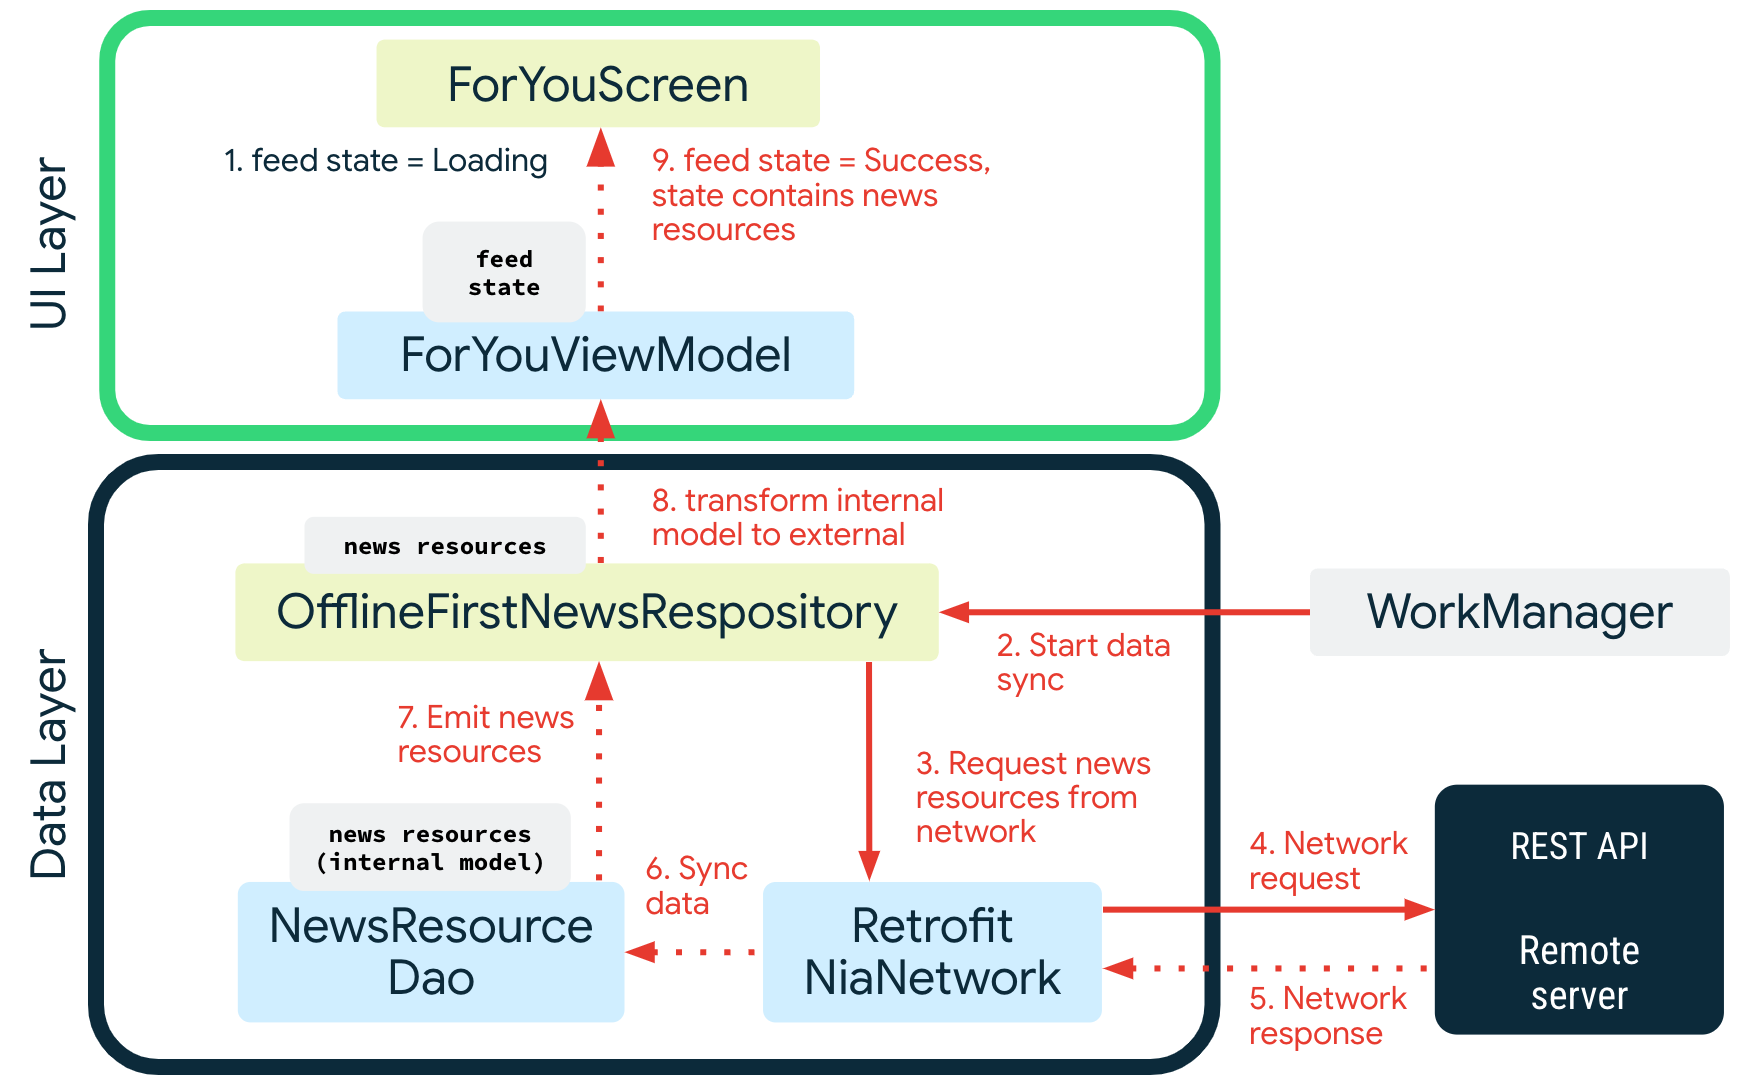
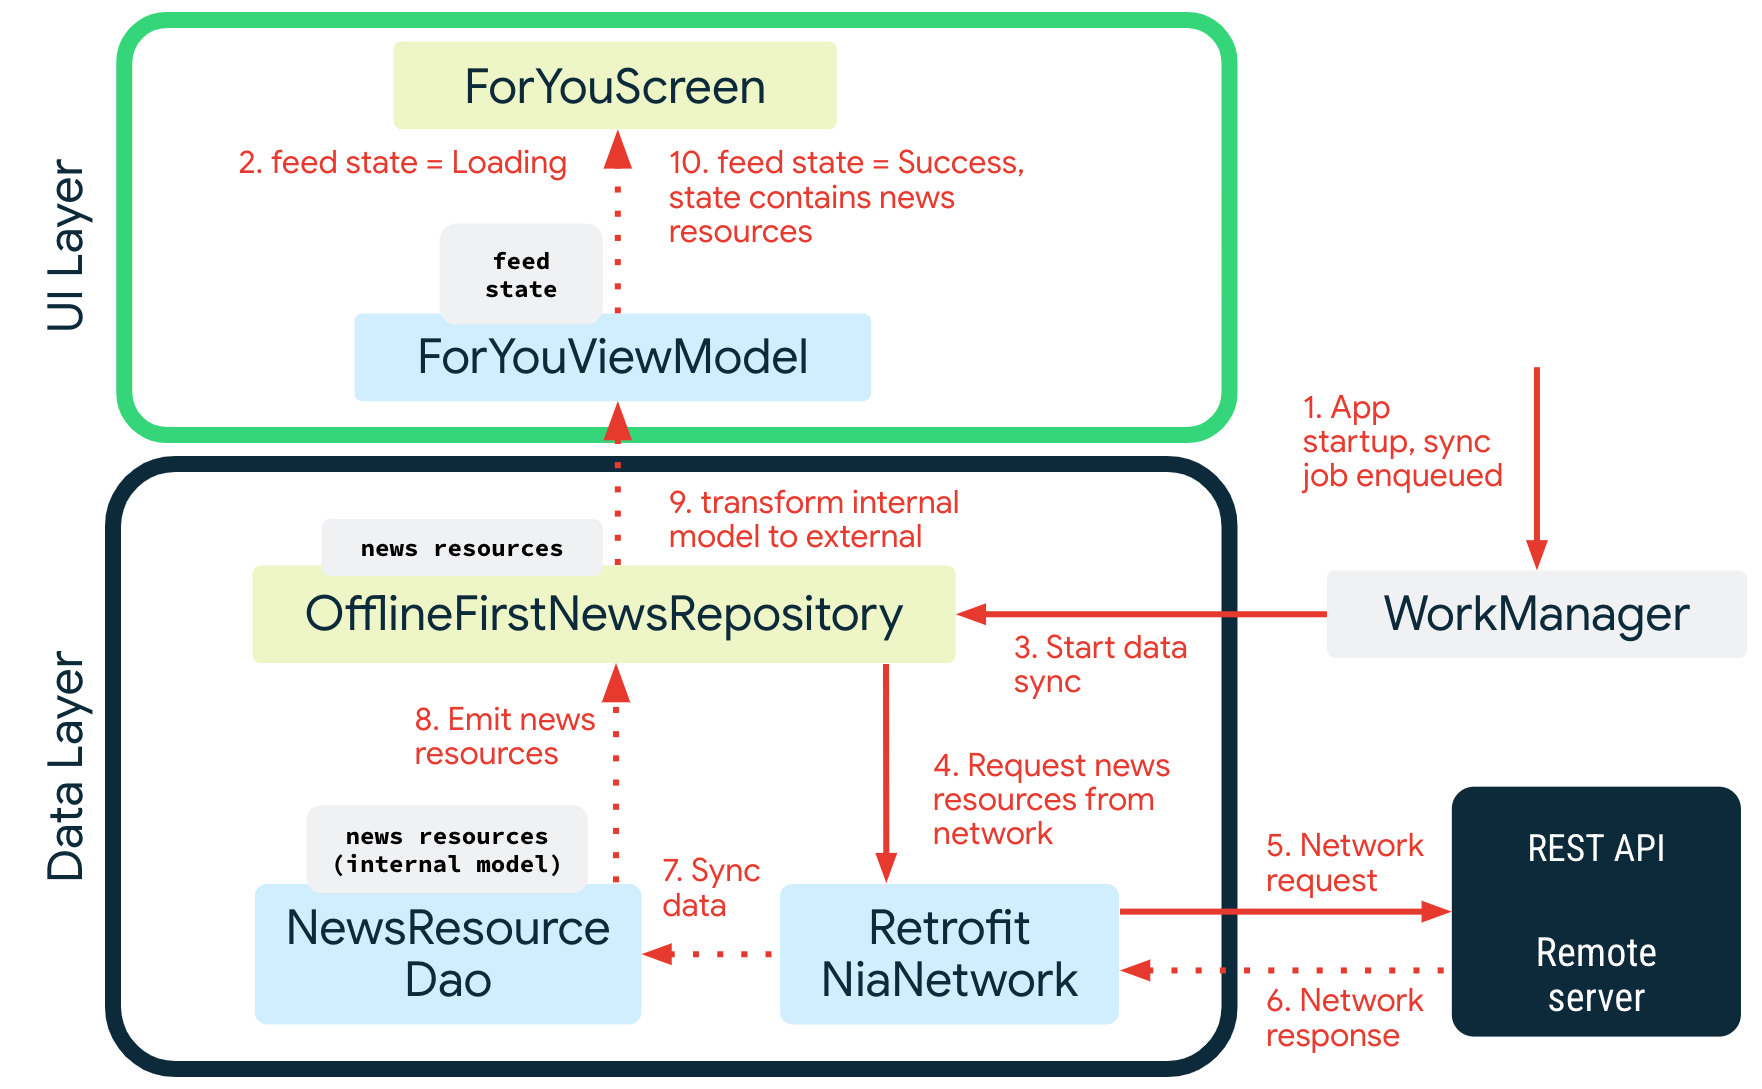
Addressing feedback and updating diagrams

diff --git a/docs/ArchitectureLearningJourney.md b/docs/ArchitectureLearningJourney.md
@@ -2,9 +2,12 @@
 
 In this learning journey you will learn about the Now in Android app architecture: its layers, key classes and the interactions between them.
 
+
 ## Goals and requirements
 
 The goals for the app architecture are:
+
+
 
 *   Follow the [official architecture guidance](https://developer.android.com/jetpack/guide) as closely as possible.
 *   Easy for developers to understand, nothing too experimental.
@@ -17,9 +20,15 @@ The goals for the app architecture are:
 
 The app architecture has two layers: a [data layer](https://developer.android.com/jetpack/guide/data-layer) and [UI layer](https://developer.android.com/jetpack/guide/ui-layer) (a third, [the domain layer](https://developer.android.com/jetpack/guide/domain-layer), is currently in development).
 
-![Diagram showing overall app architecture](images/architecture-1-overall.png "Diagram showing overall app architecture")
+
+<center>
+<img src="images/architecture-1-overall.png" width="600px" alt="Diagram showing overall app architecture" />
+</center>
+
 
 The architecture follows a reactive programming model with [unidirectional data flow](https://developer.android.com/jetpack/guide/ui-layer#udf). With the data layer at the bottom, the key concepts are:
+
+
 
 *   Higher layers react to changes in lower layers.
 *   Events flow down.
@@ -27,52 +36,138 @@ The architecture follows a reactive programming model with [unidirectional data 
 
 The data flow is achieved using streams, implemented using [Kotlin Flows](https://developer.android.com/kotlin/flow).
 
-**Example: Displaying news on the For You screen**
+
+### Example: Displaying news on the For You screen
 
 When the app is first run it will attempt to load a list of news resources from a remote server (when the `staging` or `release` build variant is selected, `debug` builds will use local data). Once loaded, these are shown to the user based on the interests they choose.
 
 The following diagram shows the events which occur and how data flows from the relevant objects to achieve this.
 
+
 ![Diagram showing how news resources are displayed on the For You screen](images/architecture-2-example.png "Diagram showing how news resources are displayed on the For You screen")
 
-Here's the code which corresponds to each step. The easiest way to jump to the code is to load the project into Android Studio and search for the following:
 
-1) Search for instances of `ForYouFeedState.Loading`
+Here's what's happening in each step. The easiest way to find the associated code is to load the project into Android Studio and search for the text in the Code column (handy shortcut: tap SHIFT twice).
 
-2) See `SyncWorker#doWork`
 
-3&6) See `OfflineFirstNewsRepository#syncWith`
+<table>
+  <tr>
+   <td><strong>Step</strong>
+   </td>
+   <td><strong>Description</strong>
+   </td>
+   <td><strong>Code </strong>
+   </td>
+  </tr>
+  <tr>
+   <td>1
+   </td>
+   <td>On app startup, a <a href="https://developer.android.com/topic/libraries/architecture/workmanager">WorkManager</a> job to sync all repositories is enqueued.
+   </td>
+   <td><code>SyncInitializer.create</code>
+   </td>
+  </tr>
+  <tr>
+   <td>2
+   </td>
+   <td>The initial news feed state is set to <code>Loading</code>, which causes the UI to show a loading spinner on the screen.
+   </td>
+   <td>Search for usages of <code>ForYouFeedState.Loading</code>
+   </td>
+  </tr>
+  <tr>
+   <td>3
+   </td>
+   <td>WorkManager executes the sync job which calls <code>OfflineFirstNewsRepository</code> to start synchronizing data with the remote data source.
+   </td>
+   <td><code>SyncWorker.doWork</code>
+   </td>
+  </tr>
+  <tr>
+   <td>4
+   </td>
+   <td><code>OfflineFirstNewsRepository</code> calls <code>RetrofitNiaNetwork</code> to execute the actual API request using <a href="https://square.github.io/retrofit/">Retrofit</a>.
+   </td>
+   <td><code>OfflineFirstNewsRepository.syncWith</code>
+   </td>
+  </tr>
+  <tr>
+   <td>5
+   </td>
+   <td><code>RetrofitNiaNetwork</code> calls the REST API on the remote server.
+   </td>
+   <td><code>RetrofitNiaNetwork.getNewsResources</code>
+   </td>
+  </tr>
+  <tr>
+   <td>6
+   </td>
+   <td><code>RetrofitNiaNetwork</code> receives the network response from the remote server.
+   </td>
+   <td><code>RetrofitNiaNetwork.getNewsResources</code>
+   </td>
+  </tr>
+  <tr>
+   <td>7
+   </td>
+   <td><code>OfflineFirstNewsRepository</code> syncs the remote data with <code>NewsResourceDao</code> by inserting, updating or deleting data in a local <a href="https://developer.android.com/training/data-storage/room">Room database</a>.
+   </td>
+   <td><code>OfflineFirstNewsRepository.syncWith</code>
+   </td>
+  </tr>
+  <tr>
+   <td>8
+   </td>
+   <td>When data changes in <code>NewsResourceDao</code> it is emitted into the news resources data stream (which is a <a href="https://developer.android.com/kotlin/flow">Flow</a>).
+   </td>
+   <td><code>NewsResourceDao.getNewsResourcesStream</code>
+   </td>
+  </tr>
+  <tr>
+   <td>9
+   </td>
+   <td><code>OfflineFirstNewsRepository</code> acts as an <a href="https://developer.android.com/kotlin/flow#modify">intermediate operator</a> on this stream, transforming the incoming <code>PopulatedNewsResource</code> (a database model, internal to the data layer) to the public <code>NewsResource</code> model which is consumed by other layers.
+   </td>
+   <td><code>OfflineFirstNewsRepository.getNewsResourcesStream</code>
+   </td>
+  </tr>
+  <tr>
+   <td>10
+   </td>
+   <td><code>When ForYouViewModel</code> receives the news resources it updates the feed state to <code>Success</code>.  <code>ForYouScreen</code> then uses the news resources in the state to render the screen.
+<p>
+The screen shows the newly retrieved news resources (as long as the user has chosen at least one topic or author).
+   </td>
+   <td>Search for instances of <code>ForYouFeedState.Success</code>
+   </td>
+  </tr>
+</table>
 
-4&5) See `RetrofitNiaNetwork#getNewsResources`
-
-7) See `NewsResourceDao#getNewsResourcesStream`
-
-8) See `OfflineFirstNewsRespository#getNewsResourcesStream`
-
-9) Search for instances of `ForYouFeedState.Success`
 
 
 ## Data layer
 
 The data layer is implemented as an offline-first source of app data and business logic. It is the source of truth for all data in the app.
 
+
+
 ![Diagram showing the data layer architecture](images/architecture-3-data-layer.png "Diagram showing the data layer architecture")
 
 
-Each repository has its own model. For example, the `TopicsRepository` has a `Topic` model and the `NewsRepository` has a `NewsResource` model.
+Each repository has its own models. For example, the `TopicsRepository` has a `Topic` model and the `NewsRepository` has a `NewsResource` model.
 
 Repositories are the public API for other layers, they provide the _only_ way to access the app data. The repositories typically offer one or more methods for reading and writing data.
 
 
 ### Reading data
 
-Data is obtained using data streams. This means each client of the repository must be prepared to react to data changes. Data is not exposed as a snapshot (e.g. `getModel`) because there's no guarantee that it will still be valid by the time it is used.
+Data is exposed as data streams. This means each client of the repository must be prepared to react to data changes. Data is not exposed as a snapshot (e.g. `getModel`) because there's no guarantee that it will still be valid by the time it is used.
 
 _Example: Read a list of authors_
 
-A list of `Author`s can be obtained by calling `AuthorsRepository.getAuthorsStream()`. This returns a `Flow<List<Author>>`.
+A list of Authors can be obtained by subscribing to `AuthorsRepository::getAuthorsStream` flow which emits `List<Authors>`.
 
-Whenever the list of authors changes (for example, when a new author is added), the updated `List&lt;Author>` is emitted into the stream.
+Whenever the list of authors changes (for example, when a new author is added), the updated `List<Author>` is emitted into the stream.
 
 
 ### Writing data
@@ -101,7 +196,7 @@ A repository may depend on one or more data sources. For example, the `OfflineFi
   <tr>
    <td>TopicsDao
    </td>
-   <td>Room/SQLite
+   <td><a href="https://developer.android.com/training/data-storage/room">Room/SQLite</a>
    </td>
    <td>Persistent relational data associated with Topics
    </td>
@@ -109,7 +204,7 @@ A repository may depend on one or more data sources. For example, the `OfflineFi
   <tr>
    <td>NiaPreferences
    </td>
-   <td>Proto DataStore
+   <td><a href="https://developer.android.com/topic/libraries/architecture/datastore">Proto DataStore</a>
    </td>
    <td>Persistent unstructured data associated with user preferences, specifically which Topics the user is interested in. This is defined and modeled in a .proto file, using the protobuf syntax.
    </td>
@@ -119,7 +214,7 @@ A repository may depend on one or more data sources. For example, the `OfflineFi
    </td>
    <td>Remote API accessed using Retrofit
    </td>
-   <td>Data for topics, provided through REST API endpoints as JSON. 
+   <td>Data for topics, provided through REST API endpoints as JSON.
    </td>
   </tr>
 </table>
@@ -139,7 +234,8 @@ The [UI layer](https://developer.android.com/topic/architecture/ui-layer) compri
 *   UI elements built using [Jetpack Compose](https://developer.android.com/jetpack/compose)
 *   [Android ViewModels](https://developer.android.com/topic/libraries/architecture/viewmodel)
 
-The view models receive streams of data from repositories and transform them into UI state. The UI elements reflect this state, and provide ways for the user to interact with the app. These interactions are passed as events to the view model where they are processed.
+The ViewModels receive streams of data from repositories and transform them into UI state. The UI elements reflect this state, and provide ways for the user to interact with the app. These interactions are passed as events to the view model where they are processed.
+
 
 ![Diagram showing the UI layer architecture](images/architecture-4-ui-layer.png "Diagram showing the UI layer architecture")
 
@@ -167,7 +263,7 @@ The `feedState` is passed to the `ForYouScreen` composable, which handles both o
 
 ### Transforming streams into UI state
 
-View models receive streams of data as cold [flows](https://kotlin.github.io/kotlinx.coroutines/kotlinx-coroutines-core/kotlinx.coroutines.flow/-flow/index.html) from one or more repositories. These are [combined](https://kotlin.github.io/kotlinx.coroutines/kotlinx-coroutines-core/kotlinx.coroutines.flow/combine.html) together to produce a single flow of UI state. This single flow is then converted to a hot flow using [stateIn](https://kotlin.github.io/kotlinx.coroutines/kotlinx-coroutines-core/kotlinx.coroutines.flow/state-in.html). The conversion to a hot flow enables UI elements to read the last known state from the flow.
+View models receive streams of data as cold [flows](https://kotlin.github.io/kotlinx.coroutines/kotlinx-coroutines-core/kotlinx.coroutines.flow/-flow/index.html) from one or more repositories. These are [combined](https://kotlin.github.io/kotlinx.coroutines/kotlinx-coroutines-core/kotlinx.coroutines.flow/combine.html) together to produce a single flow of UI state. This single flow is then converted to a hot flow using [stateIn](https://kotlin.github.io/kotlinx.coroutines/kotlinx-coroutines-core/kotlinx.coroutines.flow/state-in.html). The conversion to a state flow enables UI elements to read the last known state from the flow.
 
 **Example: Displaying followed topics and authors**
 
